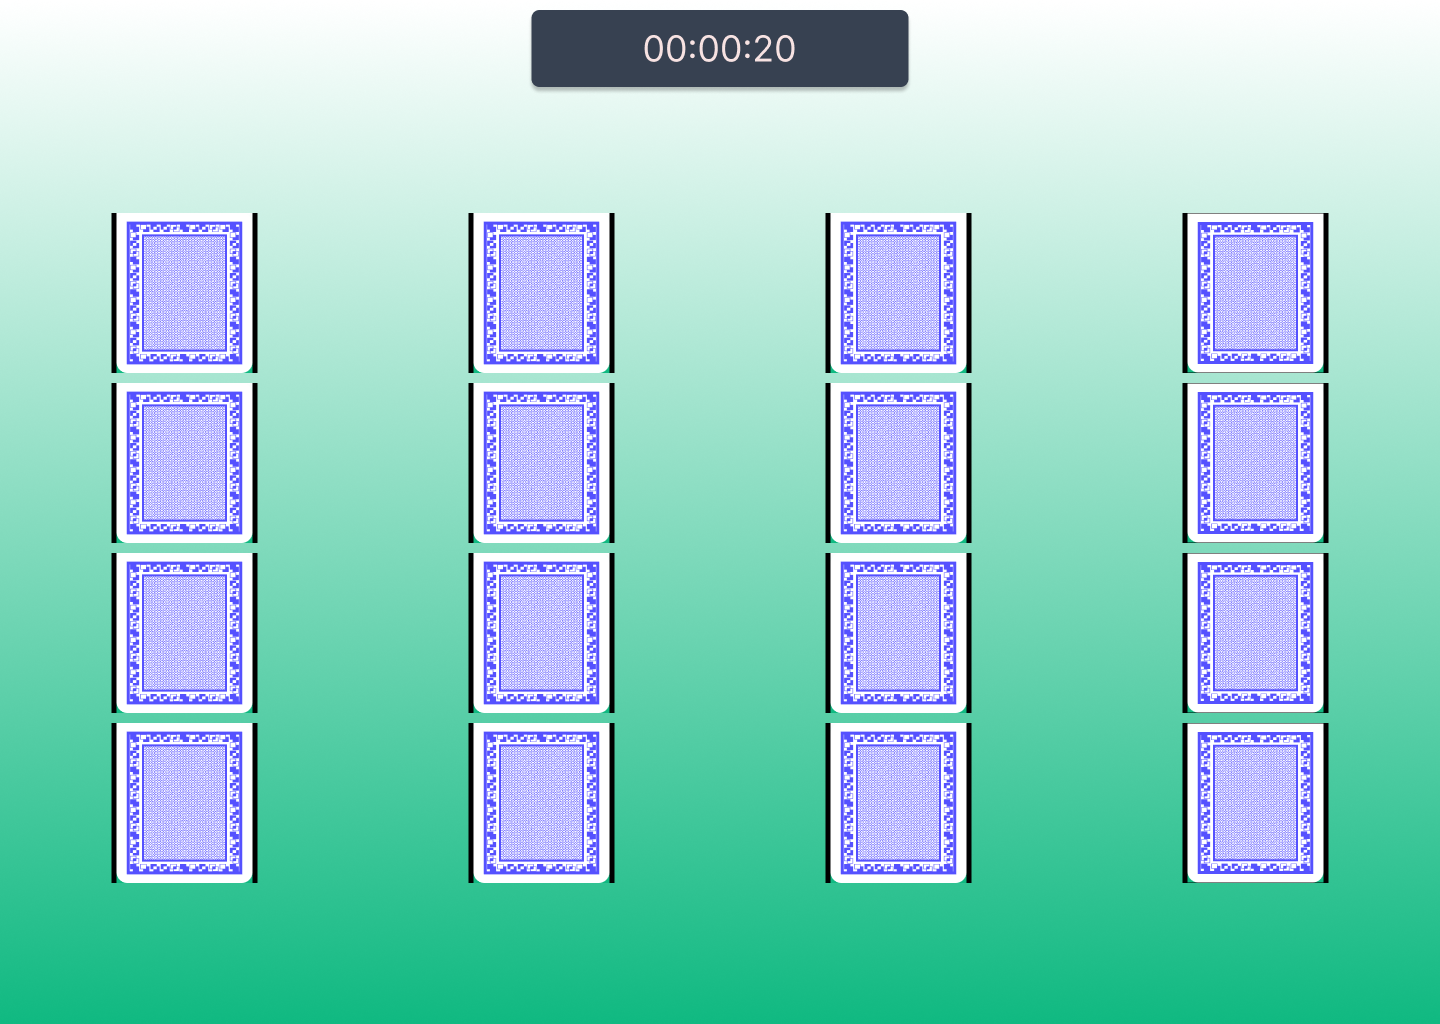
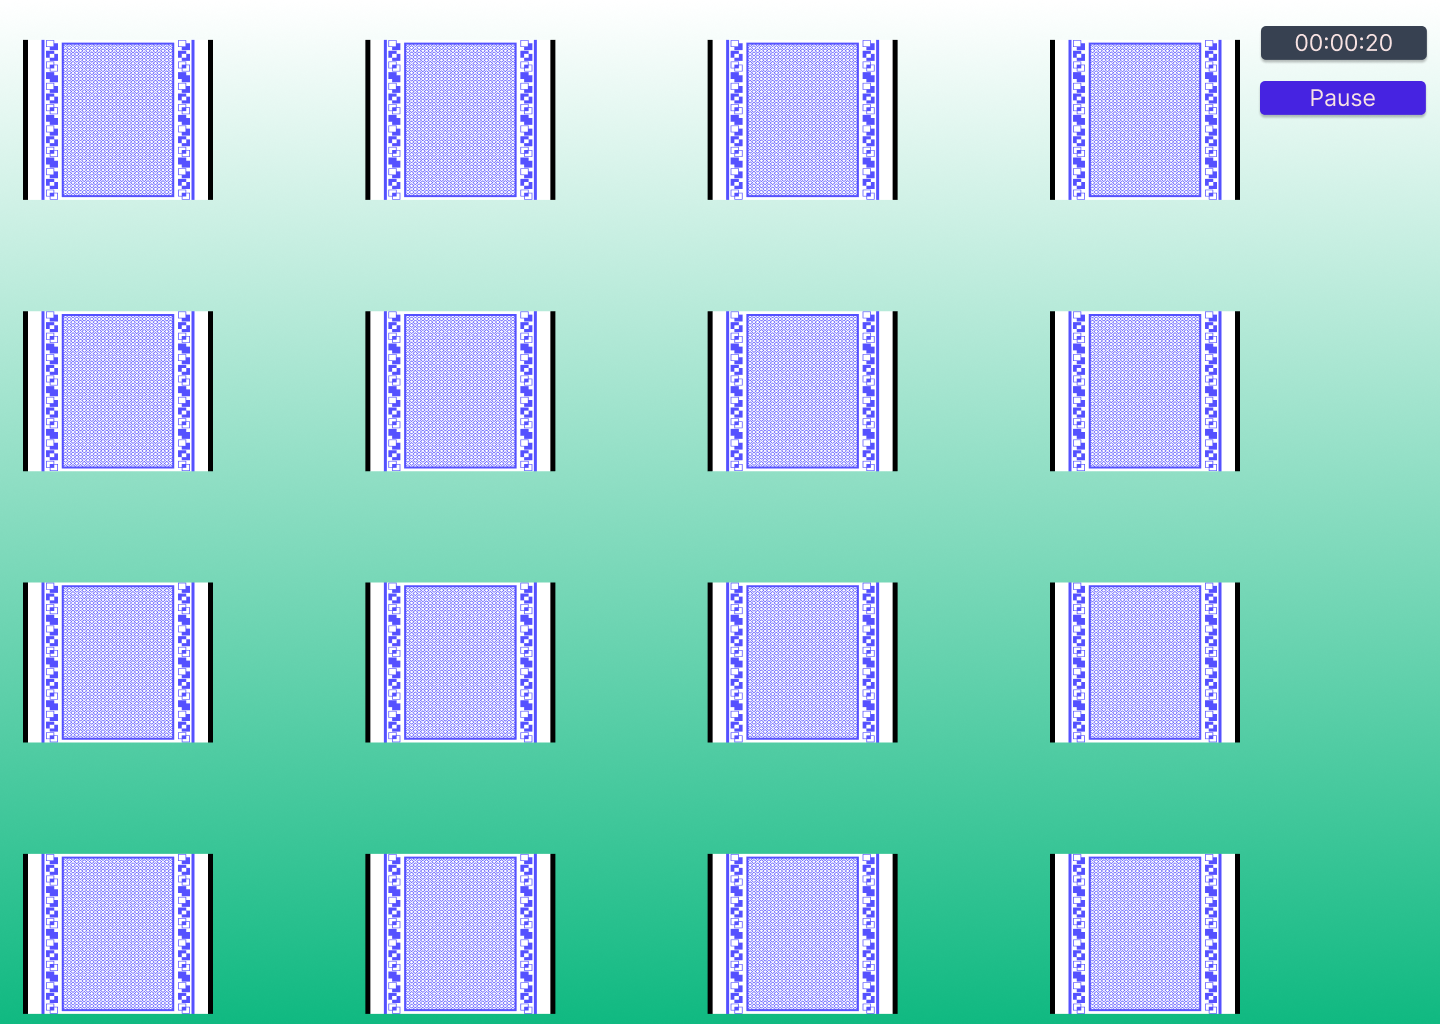
Modification: modified designs,updated and finished UI

diff --git a/index.html b/index.html
@@ -1,0 +1,49 @@
+<!DOCTYPE html>
+<html lang="en">
+<head>
+    <meta charset="UTF-8">
+    <meta name="viewport" content="width=device-width, initial-scale=1.0">
+    <title>Main Screen</title>
+    <link rel="stylesheet" href="./styles/index.css">
+</head>
+<body>
+    <main>
+        <!--controls-->
+        <section id="controls">
+            <div class="timer-box" id="timer">00:00:00</div>
+            <button id="pauseplay" onclick="">Play</button>
+        </section>
+        
+
+        <!-- cards-->
+        <table id="deck">
+            <tbody>
+              <tr>
+                <td><img src="./Assets/Back of a card.png" width="100" height="150" alt="Card 1"></td>
+                <td><img src="./Assets/Back of a card.png" width="100" height="150" alt="Card 2"></td>
+                <td><img src="./Assets/Back of a card.png" width="100" height="150" alt="Card 3"></td>
+                <td><img src="./Assets/Back of a card.png" width="100" height="150" alt="Card 4"></td>
+              </tr>
+              <tr>
+                <td><img src="./Assets/Back of a card.png" width="100" height="150" alt="Card 5"></td>
+                <td><img src="./Assets/Back of a card.png" width="100" height="150" alt="Card 6"></td>
+                <td><img src="./Assets/Back of a card.png" width="100" height="150" alt="Card 7"></td>
+                <td><img src="./Assets/Back of a card.png" width="100" height="150" alt="Card 8"></td>
+              </tr>
+              <tr>
+                <td><img src="./Assets/Back of a card.png" width="100" height="150" alt="Card 9"></td>
+                <td><img src="./Assets/Back of a card.png" width="100" height="150" alt="Card 10"></td>
+                <td><img src="./Assets/Back of a card.png" width="100" height="150" alt="Card 11"></td>
+                <td><img src="./Assets/Back of a card.png" width="100" height="150" alt="Card 12"></td>
+              </tr>
+              <tr>
+                <td><img src="./Assets/Back of a card.png" width="100" height="150" alt="Card 13"></td>
+                <td><img src="./Assets/Back of a card.png" width="100" height="150" alt="Card 14"></td>
+                <td><img src="./Assets/Back of a card.png" width="100" height="150" alt="Card 15"></td>
+                <td><img src="./Assets/Back of a card.png" width="100" height="150" alt="Card 16"></td>
+              </tr>
+            </tbody>
+          </table>
+    </main>
+</body>
+</html>

diff --git a/styles/index.css b/styles/index.css
@@ -1,0 +1,58 @@
+body {
+    background: linear-gradient(to bottom, #FFFFFF 0%, #10B981 100%);
+    min-height: 100vh;
+    margin: 0;
+}
+
+#controls {
+    display: flex;
+    flex-direction: column;
+    gap: 30px;
+    position: absolute;
+    top: 30px;
+    right: 30px;
+    box-shadow: 10px;
+    border-radius: 8px;
+    padding: 10px;
+    color:whitesmoke;
+}
+
+/* Small devices (phones) */
+@media (max-width: 600px) {
+    #controls {
+        position: fixed;
+        top: 0;
+        left: 0;
+        display: flex;
+        flex-direction: row;
+        justify-content: center;
+        align-items: center;
+        padding: 10px;
+        width: 100vw;
+        z-index: 999;
+    }
+  }
+
+
+#timer {
+    background-color: #374151;
+    box-shadow: 10px;
+    border-radius: 8px;
+    padding: 10px;
+    color:whitesmoke;
+}
+
+#pauseplay {
+    background-color: #5551FF;
+    box-shadow: 10px;
+    border-radius: 8px;
+    padding: 10px;
+    color:whitesmoke;
+}
+
+#deck {
+    border-collapse: collapse;
+    border: 1px solid black; 
+    width: 100%;
+    height: 100vh;
+}
